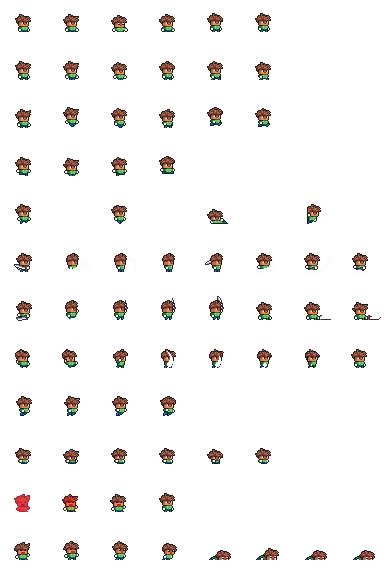
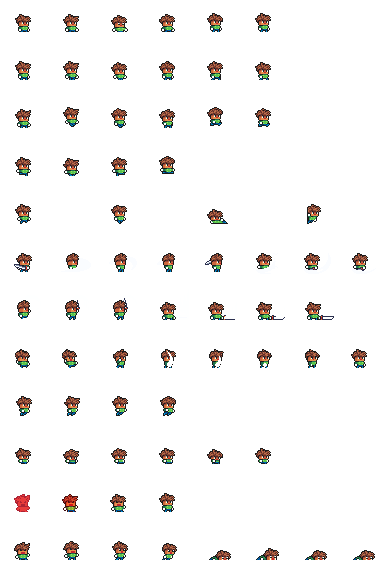
player sprite needs more adjustments

diff --git a/src/features/Battle/configs/spritesheetConfig.ts b/src/features/Battle/configs/spritesheetConfig.ts
@@ -66,9 +66,9 @@ export const basePlayerAnimationConfig: PlayerAnimations = {
   idle: { frameCount: 6, fps: 8, row: 0 },
   walk: { frameCount: 6, fps: 8, row: 1 },
   hurt: { frameCount: 4, fps: 7, row: 10 },
-  attack_1: { frameCount: 7, fps: 12, row: 5 },
-  attack_2: { frameCount: 7, fps: 12, row: 6 },
-  attack_3: { frameCount: 7, fps: 12, row: 7 },
+  attack_1: { frameCount: 7, fps: 16, row: 5 },
+  attack_2: { frameCount: 7, fps: 16, row: 6 },
+  attack_3: { frameCount: 7, fps: 16, row: 7 },
 };
 
 // NEW: Player-specific overrides based on class

diff --git a/src/features/Battle/components/BattleArena.tsx b/src/features/Battle/components/BattleArena.tsx
@@ -11,7 +11,7 @@ export default function BattleArena() {
 	const {
 		getAnimationParams: getPlayerAnimation,
 		setCurrentAction: setPlayerCurrentAction,
-	} = useCharacterAnimation('player', 'default', 'default_3');
+	} = useCharacterAnimation('player', 'default', 'default_1');
 
 	const {
 		getAnimationParams: getEnemyAnimation,
